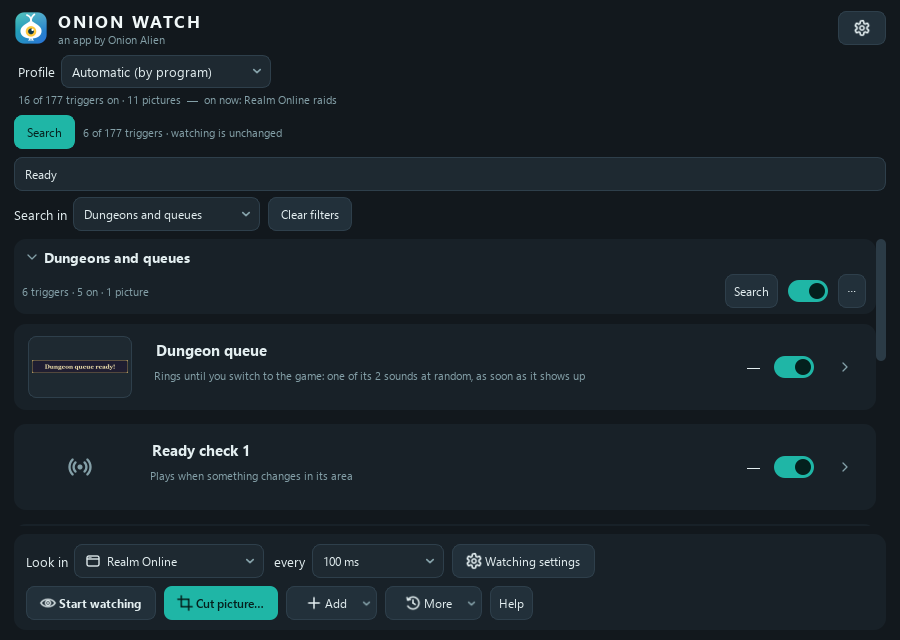
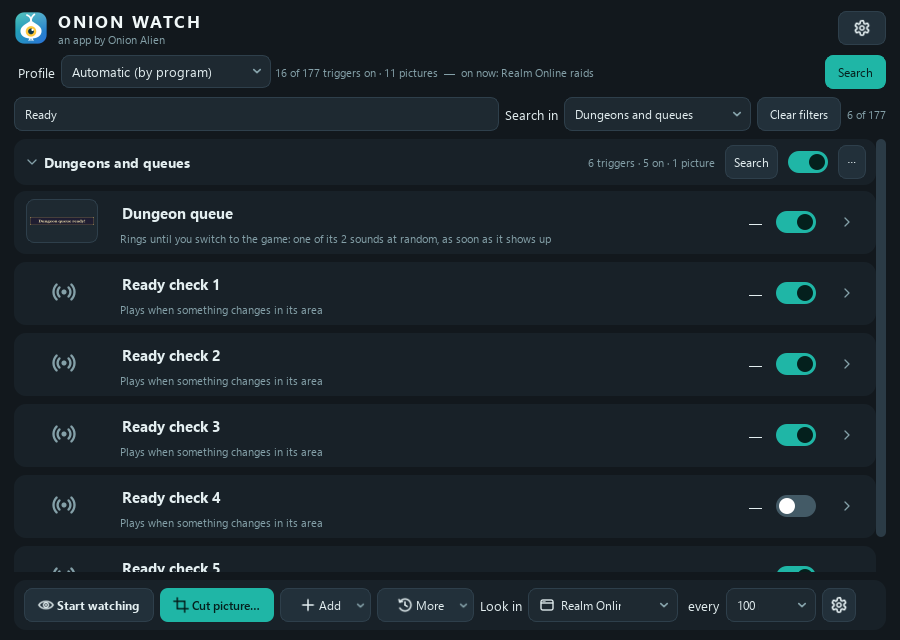
Trigger list: one-row toolbar, compact cards and search, aligned card titles
Finishes the layout pass: the bottom bar is a single row when it fits,
search sits beside the profile, category counts stay on one line, cards
without pictures line up with the rest, and the open search bar no
longer stops the window shrinking below 519 px.

diff --git a/onionwatch/ui/triggerspanel.py b/onionwatch/ui/triggerspanel.py
@@ -63,7 +63,7 @@ MAX_TRIGGERS = 500      # in all; how many can be on at once is up to the comput
 OLD_TRIGGERS = 50
 MAX_SIDE = 8192         # bigger pictures are refused (kept pixel for pixel, never resized)
 CUT_KEY = "OnionWatch cut from"   # a picture's PNG text: the size of what it was cut from
-THUMB = QSize(96, 54)
+THUMB = QSize(64, 36)
 STRIP_THUMBS = 3        # thumbnails a card's strip shows before it scrolls
 CHIP_CHARS = 24         # a sound chip's name is cut to this many characters
 PICKS = (("random", "Random"), ("order", "In order"), ("all", "All at once"))
@@ -705,8 +705,8 @@ class TriggerRow(QFrame):
         self._sounds: list[tuple[str, str]] = []   # the sounds as last given
         self._narrow = False            # too narrow for the header's thumbnail
         v = QVBoxLayout(self)
-        v.setContentsMargins(14, 12, 14, 12)
-        v.setSpacing(10)
+        v.setContentsMargins(12, 8, 12, 8)
+        v.setSpacing(6)
 
         # the header, always shown: its pictures, name, what it does (or what's wrong),
         # the live match, on / off, and open / close. Click it to open the rest
@@ -720,7 +720,7 @@ class TriggerRow(QFrame):
         top.addWidget(self.strip, 0, Qt.AlignTop)
         self.badge = QLabel()           # instead of the strip, for a trigger without pictures
         self.badge.setObjectName("iconlabel")
-        self.badge.setFixedSize(THUMB + QSize(8, 8))
+        self.badge.setFixedSize(THUMB + QSize(12, 8))   # one thumbnail's slot: names line up
         self.badge.setAlignment(Qt.AlignCenter)
         top.addWidget(self.badge, 0, Qt.AlignTop)
         names = QVBoxLayout()
@@ -1596,7 +1596,7 @@ class TriggersTab(QWidget):
         # the profile in charge and how much is on: there once there are categories
         # or profiles (a plain list of triggers looks as it always did)
         self.groupbar = QWidget()
-        gb = QVBoxLayout(self.groupbar)
+        gb = QHBoxLayout(self.groupbar)
         gb.setContentsMargins(4, 0, 4, 0)
         gb.setSpacing(4)
         self.cb_profile = WideCombo(min_width=150)
@@ -1610,18 +1610,18 @@ class TriggersTab(QWidget):
         self.lbl_counts = hint_label("")     # wraps rather than widen a narrow window
         self.lbl_counts.setSizePolicy(QSizePolicy.Ignored, QSizePolicy.Preferred)
         gb.addWidget(self.lbl_counts, 1)
-        v.addWidget(self.groupbar)
         search_head = QHBoxLayout()
+        search_head.addWidget(self.groupbar, 1)
+        search_head.addStretch(0)       # without the groupbar, Search stays small on the right
         self.btn_search = QPushButton("Search")
         self.btn_search.setCheckable(True)
         self.btn_search.setToolTip("Find triggers in all categories (Ctrl+F)")
         align_control(self.btn_search)
         search_head.addWidget(self.btn_search)
         self.search_summary = hint_label("Find a trigger by name, category, window or sound")
-        search_head.addWidget(self.search_summary, 1)
         v.addLayout(search_head)
         self.search_bar = QWidget()
-        search_layout = QVBoxLayout(self.search_bar)
+        search_layout = QBoxLayout(QBoxLayout.LeftToRight, self.search_bar)
         search_layout.setContentsMargins(0, 0, 0, 0)
         search_layout.setSpacing(6)
         self.search_text = QLineEdit()
@@ -1629,9 +1629,11 @@ class TriggersTab(QWidget):
         self.search_text.setAccessibleName("Search triggers")
         self.search_text.setClearButtonEnabled(True)
         align_control(self.search_text)
-        search_layout.addWidget(self.search_text)
-        scope_row = FlowBox(gap=8, flow_type=BarFlow)
-        scope_line = scope_row.flow
+        search_layout.addWidget(self.search_text, 1)
+        scope_row = QWidget()
+        scope_line = QHBoxLayout(scope_row)
+        scope_line.setContentsMargins(0, 0, 0, 0)
+        scope_line.setSpacing(6)
         self.search_scope = WideCombo(min_width=140)
         self.search_scope.setAccessibleName("Search category")
         align_control(self.search_scope)
@@ -1640,6 +1642,9 @@ class TriggersTab(QWidget):
         align_control(self.btn_clear_search)
         scope_line.addWidget(self.btn_clear_search)
         search_layout.addWidget(scope_row)
+        search_layout.addWidget(self.search_summary)
+        # side by side only sets no minimum: below 600 px resizeEvent stacks it instead
+        self.search_bar.setSizePolicy(QSizePolicy.Ignored, QSizePolicy.Preferred)
         v.addWidget(self.search_bar)
         self.search_bar.hide()
         self._search_ids: set[str] | None = None
@@ -1663,7 +1668,7 @@ class TriggersTab(QWidget):
         self.list = QWidget()
         self.list_layout = QVBoxLayout(self.list)
         self.list_layout.setContentsMargins(0, 0, 0, 0)
-        self.list_layout.setSpacing(14)
+        self.list_layout.setSpacing(8)
         self.empty = QWidget()
         ev = QVBoxLayout(self.empty)
         ev.setContentsMargins(0, 24, 0, 0)
@@ -1686,14 +1691,8 @@ class TriggersTab(QWidget):
         f = QFrame()
         f.setObjectName("transport")
         self.toolbar = f
-        toolbar = QVBoxLayout(f)
-        toolbar.setContentsMargins(12, 10, 12, 10)
-        toolbar.setSpacing(8)
-        source_row = FlowBox(gap=8, flow_type=BarFlow)
-        actions = FlowBox(gap=8)
-        toolbar.addWidget(source_row)
-        toolbar.addWidget(actions)
-        h = actions.flow
+        h = BarFlow(f, gap=6)
+        h.setContentsMargins(10, 8, 10, 8)
         self.btn_watch = QPushButton()
         self.btn_watch.setObjectName("live")
         self.btn_watch.setCheckable(True)
@@ -1704,7 +1703,7 @@ class TriggersTab(QWidget):
         self.btn_cut = QPushButton("Cut picture…")
         self.btn_cut.setObjectName("primary")
         self.btn_cut.setToolTip("A new trigger: cut a picture out of the window (or screen) "
-                                "picked in Look in above")
+                                "picked in Look in")
         icons.set_icon(self.btn_cut, "crop", "on_accent")
         self.btn_cut.clicked.connect(self.add_from_cut)
         self.hoot.clicked.connect(lambda: self.btn_cut.setFocus(Qt.OtherFocusReason))
@@ -1753,7 +1752,7 @@ class TriggersTab(QWidget):
         self.btn_more.setMenu(menu)
         h.addWidget(self.btn_more)
         self.cb_where = WideCombo(min_width=140)
-        self.cb_where.setMaximumWidth(190)   # a long window title doesn't stretch the bar
+        self.cb_where.setMaximumWidth(150)   # long titles stay in the popup and tooltip
         self.cb_where.setToolTip("Where triggers that say “Same as below” look: your game's "
                                  "window, or a whole screen")
         self.cb_where.activated.connect(self._on_where)
@@ -1761,7 +1760,8 @@ class TriggersTab(QWidget):
         look = labelled("Look in", self.cb_where)
         # six characters ("100 ms") when there's room, just enough for them when the
         # window is small
-        self.cb_interval = narrow(WideCombo(min_width=110), 6)
+        self.cb_interval = narrow(WideCombo(min_width=80), 6)
+        self.cb_interval.setMaximumWidth(90)
         for ms in INTERVALS_MS:
             label = f"{ms} ms" + (" (every frame)" if ms == 16 else "")
             self.cb_interval.addItem(label, ms)
@@ -1780,15 +1780,16 @@ class TriggersTab(QWidget):
         self.lbl_interval = every.layout().itemAt(0).widget()
         self.look = Pair(look, every)
         # Source first, then creation and playback: stable rows at normal widths.
-        source_row.flow.addWidget(self.look)
+        h.addWidget(self.look)
         # the watching settings (processor use), then last the ⓘ and the bin (only
         # while it holds something)
-        self.btn_settings = QPushButton("Watching settings")
+        self.btn_settings = QPushButton()
+        self.btn_settings.setFixedWidth(34)
         self.btn_settings.setToolTip("Watching settings: how much of your processor it may use")
         self.btn_settings.setAccessibleName("Watching settings")
         icons.set_icon(self.btn_settings, "settings")
         self.btn_settings.clicked.connect(self.show_watching)
-        source_row.flow.addWidget(self.btn_settings)
+        h.addWidget(self.btn_settings)
         if not callable(getattr(host, "tab_info", None)):
             self.btn_info = QPushButton("Help")
             self.btn_info.setObjectName("small")
@@ -1796,7 +1797,10 @@ class TriggersTab(QWidget):
             self.btn_info.setToolTip("What is this?")
             self.btn_info.clicked.connect(
                 lambda: QMessageBox.information(self, *self.info))
-            h.addWidget(self.btn_info)
+            self.btn_info.setParent(self)
+            self.btn_info.hide()
+            menu.addSeparator()
+            menu.addAction("Help…", self.btn_info.click)
         self.btn_bin = QPushButton()     # the bin's icon and count (_label_bin)
         icons.set_icon(self.btn_bin, "trash")
         self.btn_bin.clicked.connect(self.show_deleted)
@@ -1826,6 +1830,12 @@ class TriggersTab(QWidget):
             self.btn_watch.setChecked(True)    # it was on when the app last closed
 
     # ------------------------------------------------------------------ search
+    def resizeEvent(self, event):
+        super().resizeEvent(event)
+        self.search_bar.layout().setDirection(
+            QBoxLayout.TopToBottom if self.width() < 600 else QBoxLayout.LeftToRight)
+        self.lbl_counts.setVisible(self.width() >= 600)
+
     def show_search(self, category: str | None = None):
         self.btn_search.setChecked(True)
         if category is not None:
@@ -1888,9 +1898,8 @@ class TriggersTab(QWidget):
         self.no_results.setVisible(active and not self._search_ids)
         self.empty.setVisible(not self.triggers and not active)
         self.search_summary.setText(
-            f"{len(self._search_ids)} of {plural(len(self.triggers), 'trigger')} · "
-            "watching is unchanged" if active else
-            "Find a trigger by name, category, window or sound")
+            f"{len(self._search_ids)} of {len(self.triggers)}" if active else "")
+        self.search_summary.setToolTip("Matching triggers; watching is unchanged")
 
     def _matches_search(self, trigger: Trigger) -> bool:
         return self._search_ids is None or trigger.id in self._search_ids

diff --git a/onionwatch/ui/categories.py b/onionwatch/ui/categories.py
@@ -6,7 +6,7 @@ from __future__ import annotations
 from PySide6.QtCore import Qt, Signal
 from PySide6.QtWidgets import (QComboBox, QDialog, QDialogButtonBox, QFrame, QHBoxLayout,
                                QLineEdit, QListWidget, QListWidgetItem, QMenu, QPushButton,
-                               QVBoxLayout, QWidget)
+                               QVBoxLayout, QWidget, QSizePolicy)
 
 from onionwatch import profiles
 from onionwatch.profiles import Profile
@@ -33,16 +33,12 @@ class CategorySection(QWidget):
         self.built = False              # its cards have been made
         v = QVBoxLayout(self)
         v.setContentsMargins(0, 0, 0, 0)
-        v.setSpacing(10)
+        v.setSpacing(6)
         self.header = QFrame()
         self.header.setObjectName("transport")   # a panel-coloured strip, like the bar
-        header_layout = QVBoxLayout(self.header)
+        header_layout = QHBoxLayout(self.header)
         header_layout.setContentsMargins(8, 6, 10, 6)
-        header_layout.setSpacing(4)
-        title = QHBoxLayout()
-        h = QHBoxLayout()
-        header_layout.addLayout(title)
-        header_layout.addLayout(h)
+        h = header_layout
         h.setSpacing(10)
         self.btn_fold = QPushButton()
         self.btn_fold.setObjectName("fold")
@@ -51,10 +47,11 @@ class CategorySection(QWidget):
         self.btn_fold.setStyleSheet("text-align:left; font-weight:700; font-size:10.5pt;"
                                     " padding-left:2px;")
         self.btn_fold.toggled.connect(self._on_fold)
-        title.addWidget(self.btn_fold, 1)
+        self.btn_fold.setSizePolicy(QSizePolicy.Ignored, QSizePolicy.Preferred)
+        h.addWidget(self.btn_fold, 1)
         self.count = hint_label("")
-        self.count.setWordWrap(True)
-        h.addWidget(self.count, 1)
+        self.count.setWordWrap(False)
+        h.addWidget(self.count)
         self.btn_search = QPushButton("Search")
         self.btn_search.setObjectName("small")
         self.btn_search.setToolTip("Search within this category")
@@ -77,7 +74,7 @@ class CategorySection(QWidget):
         self.body = QWidget()
         self.body_layout = QVBoxLayout(self.body)
         self.body_layout.setContentsMargins(0, 0, 0, 0)
-        self.body_layout.setSpacing(14)
+        self.body_layout.setSpacing(8)
         self.empty = hint_label("No triggers in this category yet. Move one here with "
                                 "Category, under a trigger's Fine-tune.")
         self.body_layout.addWidget(self.empty)
@@ -88,6 +85,10 @@ class CategorySection(QWidget):
     @property
     def is_open(self) -> bool:
         return self.btn_fold.isChecked()
+
+    def resizeEvent(self, event):
+        super().resizeEvent(event)
+        self.count.setVisible(self.width() >= 600)
 
     def set_name(self, name: str):
         self.name = name

diff --git a/tests/test_ui.py b/tests/test_ui.py
@@ -491,10 +491,10 @@ def test_the_delete_button_asks_first(tab, monkeypatch):
     assert tab.triggers == [] and tab.deleted()[0][1] == "Keep me"
 
 
-def test_source_and_actions_have_stable_toolbar_rows(tab, qapp, styled):
+def test_toolbar_is_one_row_when_there_is_room(tab, qapp, styled):
     """Cut picture stays a button; a picture file, the copied picture and a trigger
-    without a picture are in the Add menu next to it. Source controls sit above
-    the actions instead of wrapping a lone settings button onto another line."""
+    without a picture are in the Add menu next to it. At a normal width the whole
+    bar, Look in and the settings button included, is one centred row."""
     texts = [a.text() for a in tab.btn_add.menu().actions()]
     assert texts == ["From a picture file…", "Paste the copied picture", "Without a picture…"]
     assert "Without a picture…" not in [a.text() for a in tab.btn_more.menu().actions()]
@@ -502,10 +502,10 @@ def test_source_and_actions_have_stable_toolbar_rows(tab, qapp, styled):
     tab.show()
     qapp.processEvents()
     bar = tab.toolbar
-    tops = {w.mapTo(bar, w.rect().topLeft()).y() for w in
-            (tab.btn_watch, tab.btn_cut, tab.btn_add, tab.btn_more)}
-    assert len(tops) == 1
-    assert tab.cb_where.mapTo(bar, tab.cb_where.rect().bottomLeft()).y() < min(tops)
+    mids = {w.mapTo(bar, w.rect().center()).y() for w in
+            (tab.btn_watch, tab.btn_cut, tab.btn_add, tab.btn_more, tab.cb_where,
+             tab.cb_interval, tab.btn_settings)}
+    assert max(mids) - min(mids) <= 1
     assert tab.cb_where.height() == tab.btn_watch.height() == tab.btn_cut.height()
 
 

diff --git a/tests/test_search.py b/tests/test_search.py
@@ -22,7 +22,7 @@ def test_global_search_finds_a_folded_unbuilt_trigger_and_restores_folds(make, q
         qapp.processEvents()
     assert visible_ids(tab) == {"t299"}
     assert set(tab.rows) == {"t299"}  # don't construct 299 irrelevant cards
-    assert "1 of 300 triggers" in tab.search_summary.text()
+    assert tab.search_summary.text() == "1 of 300"
     assert tab.sections["Cat 2"].is_open
     assert tab.host.screen == before
     assert all(not c.open for c in tab.groups.categories)
